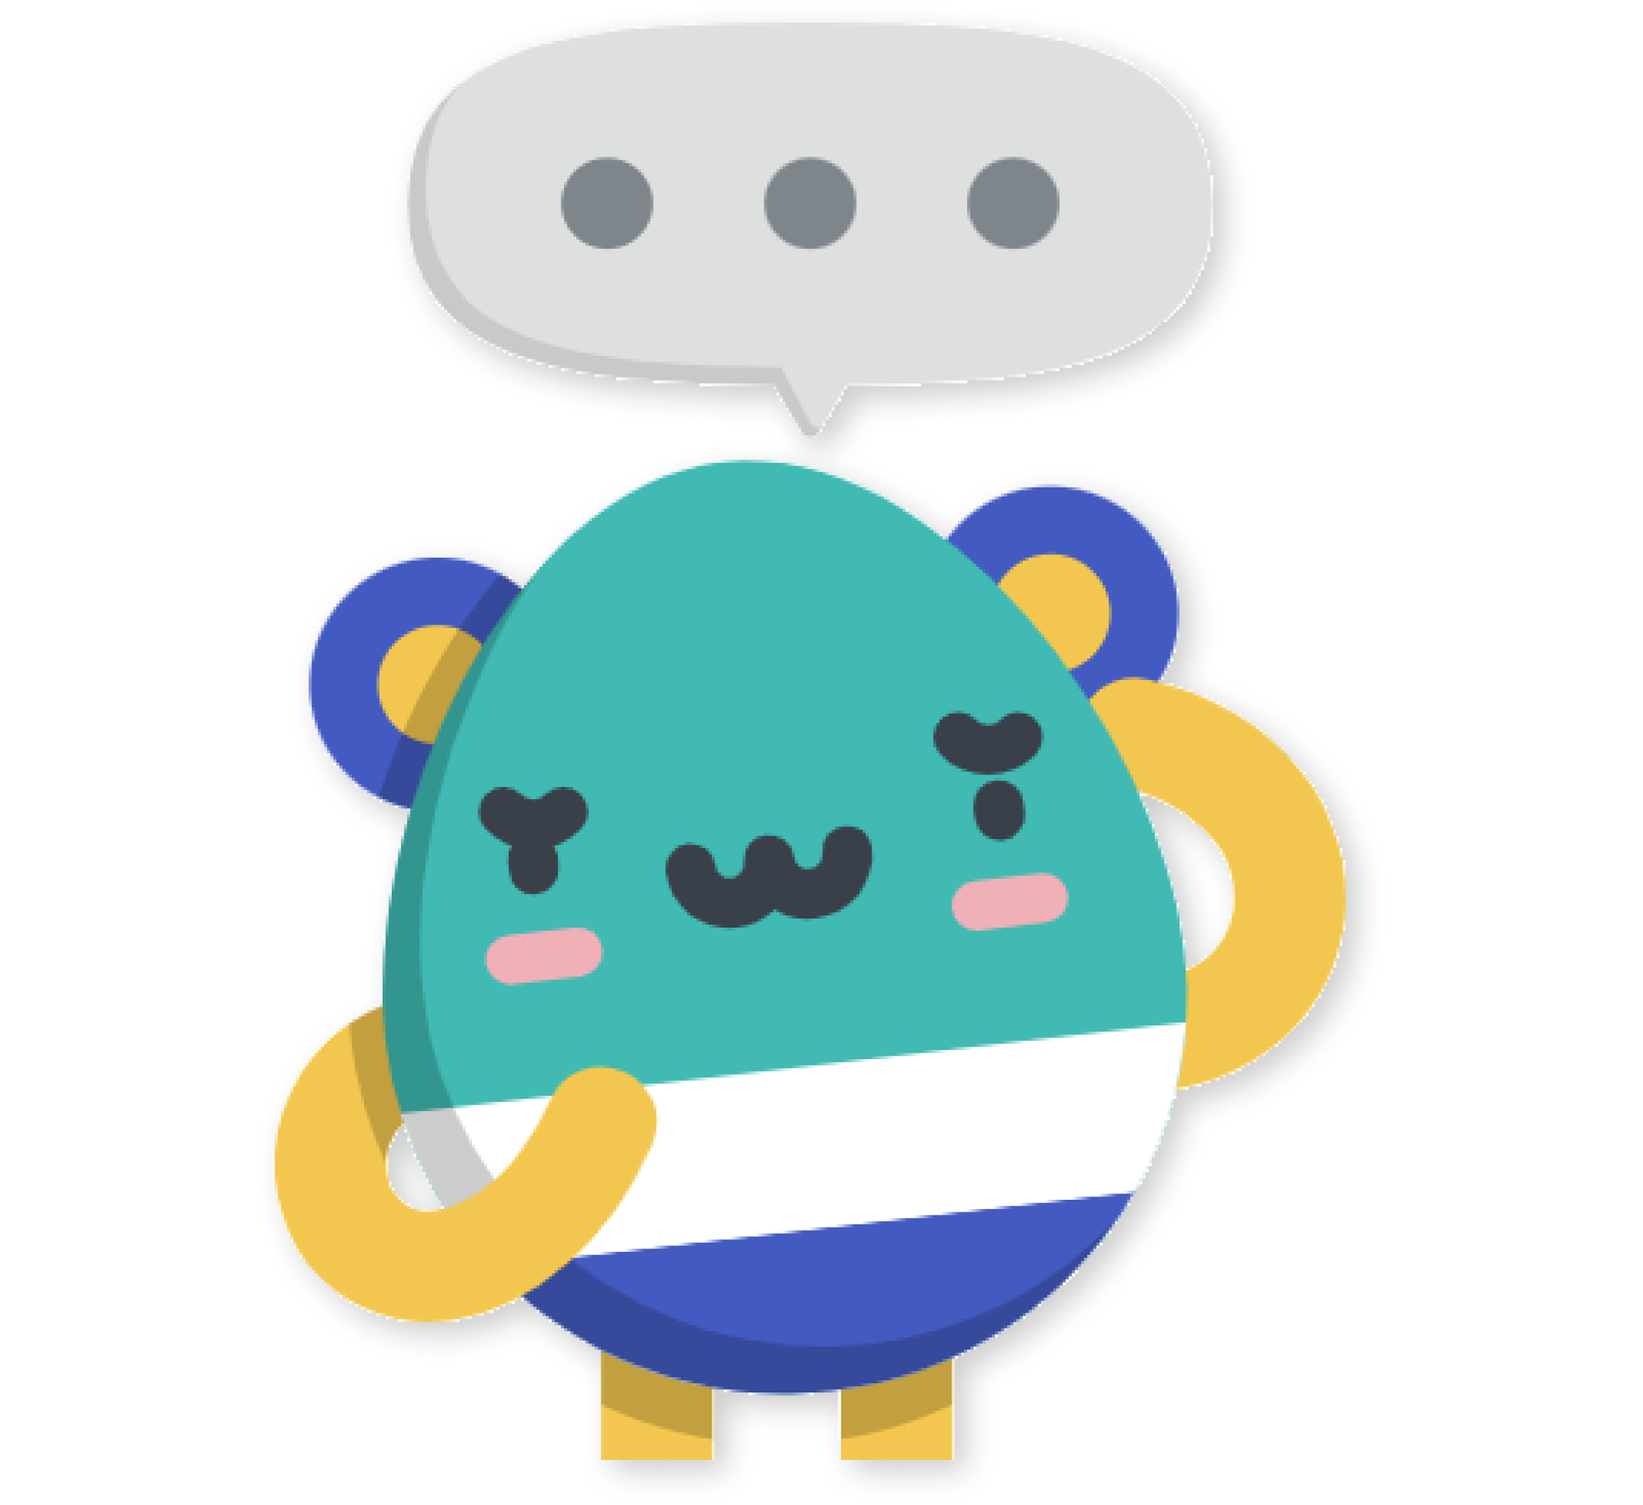
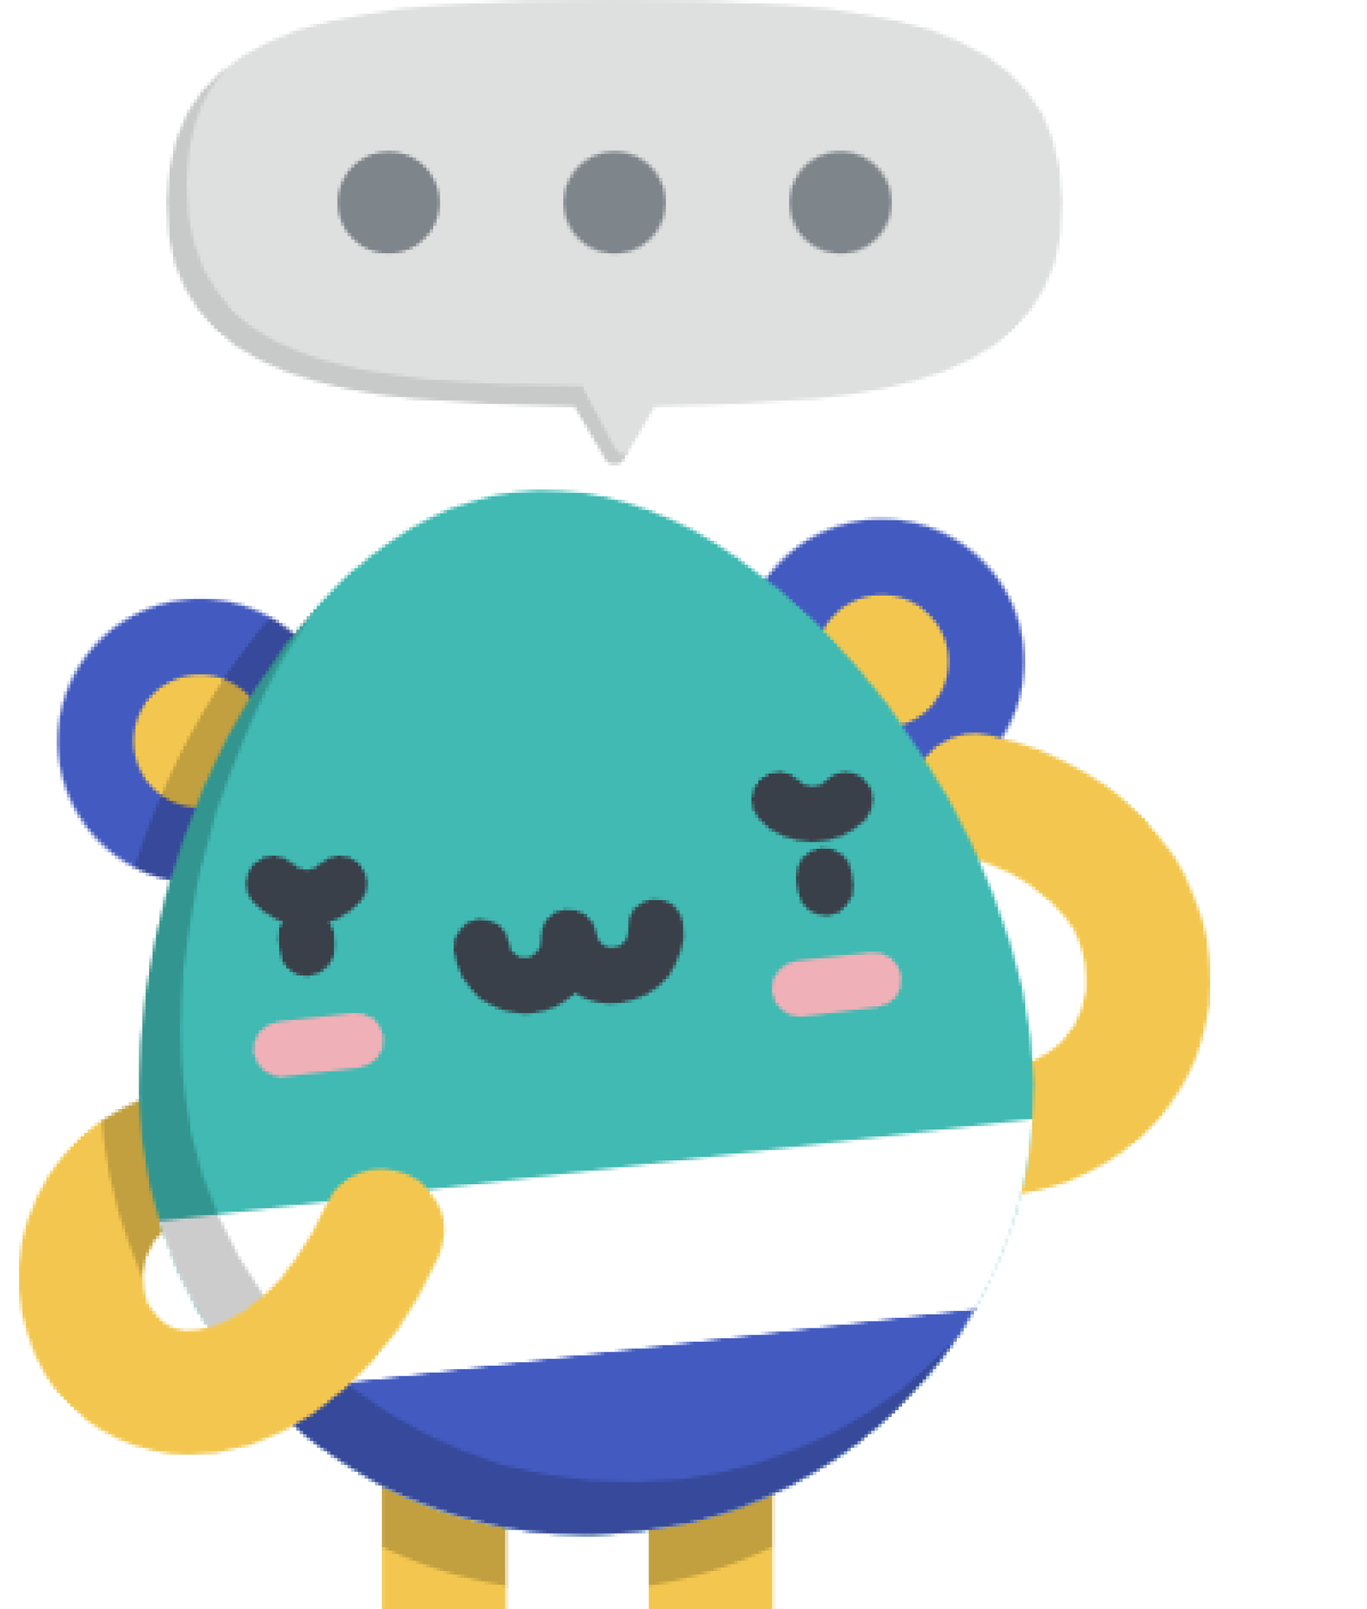
feat: add materials inside level

diff --git a/src/app/eksplor/[roadmapTopicSlug]/[levelSlug]/page.tsx b/src/app/eksplor/[roadmapTopicSlug]/[levelSlug]/page.tsx
@@ -1,15 +1,17 @@
 'use client';
-
-import { Section } from "@/components/core/Section"
-import { Footer } from "@/components/Footer"
-import { ScrambledWord } from "@/components/games/ScrambledWord";
-import { ChevronLeft } from "@/components/icons"
-import { Navbar } from "@/components/Navbar"
-
 import Link from "next/link"
 import Image from "next/image"
+import { useState } from "react";
+
+import { Navbar } from "@/components/Navbar"
+import { Footer } from "@/components/Footer"
+import { Section } from "@/components/core/Section"
+import { ChevronDown, ChevronLeft } from "@/components/icons"
+
 import { Quiz } from "@/components/games/Quiz";
 import { ShortAnswer } from "@/components/games/ShortAnswer";
+import { ScrambledWord } from "@/components/games/ScrambledWord";
+import { Material } from "@/interfaces/Material";
 
 interface LevelDetailProps {
     params: {
@@ -19,9 +21,122 @@ interface LevelDetailProps {
 }
 
 export default function LevelDetail({ params }: LevelDetailProps) {
+    const [openedMaterial, setOpenedMaterial] = useState('');
+
+    const handleOpenMaterial = (materialToBeOpen: string) => {
+        if (openedMaterial === materialToBeOpen) {
+            setOpenedMaterial('');
+        } else {
+            setOpenedMaterial(materialToBeOpen);
+        }
+    }
+
     const handleGameCompletion = () => {
         //TODO: Add point ke player
     }
+
+    const levelMaterials: Array<Material> = [
+        {
+            title: 'Organ Reproduksi',
+            materialItems: [
+                {
+                    type: 'with-illustration',
+                    text: 'Bagian tubuh yang memiliki fungsi khusus dalam proses reproduksi atau pengembangbiakan manusia. Organ ini memungkinkan terjadinya pertemuan antara sel sperma dan sel telur, yang menjadi awal dari pembentukan kehidupan baru. Pada tubuh manusia, organ reproduksi berbeda antara laki-laki dan perempuan. Pada laki-laki, organ seperti testis dan penis berperan dalam memproduksi serta mengeluarkan sperma. Sementara pada perempuan, ovarium dan rahim berfungsi dalam memproduksi sel telur dan mendukung perkembangan janin saat kehamilan. Organ-organ ini mulai berfungsi sepenuhnya ketika seseorang memasuki masa pubertas, yaitu sekitar usia 8-14 tahun.',
+                    textType: 'text',
+                    image: '/assets/thinking.png'
+                }
+            ]
+        },
+        {
+            title: 'Laki-Laki',
+            materialItems: [
+                {
+                    type: 'with-image',
+                    text: `Vas Deferens: Saluran yang membawa sperma dari epididimis menuju uretra selama proses ejakulasi.
+                    Bladder (Kandung Kemih): Organ yang menyimpan urine sebelum dikeluarkan melalui uretra. Kandung kemih tidak terlibat langsung dalam proses reproduksi, tetapi posisinya dekat dengan organ reproduksi pria.
+                    Colon (Usus Besar): Bagian dari sistem pencernaan yang berada di belakang organ reproduksi dan tidak berperan langsung dalam reproduksi.
+                    Seminal Vesicle (Kantung Semen): Struktur yang menghasilkan cairan yang bercampur dengan sperma untuk membentuk semen. Cairan ini kaya akan fruktosa, yang memberi energi pada sperma.
+                    Prostate (Kelenjar Prostat): Kelenjar yang menghasilkan cairan yang membantu sperma bergerak lebih mudah dan meningkatkan kelangsungan hidup sperma dalam sistem reproduksi wanita.
+                    Testicle (Testis): Organ yang memproduksi sperma dan hormon testosteron. Testis berperan penting dalam sistem reproduksi pria.
+                    Epididymis: Struktur berbentuk tabung di atas testis yang menyimpan dan mematangkan sperma setelah diproduksi di testis.
+                    Urethra: Saluran yang membawa sperma keluar dari tubuh selama ejakulasi. Uretra juga berfungsi dalam sistem urin untuk mengeluarkan urine.
+                    Penis: Organ eksternal yang mengeluarkan sperma dari tubuh pria ke dalam sistem reproduksi wanita saat hubungan seksual.`,
+                    textType: 'list',
+                    image: '/assets/male-reproductive-system.png'
+                },
+                {
+                    type: 'game',
+                    gameType: 'quiz',
+                    gameProps: {
+                        question: 'Organ reproduksi pada pria disebut?',
+                        answer: 'Testis',
+                        onComplete: handleGameCompletion,
+                        point: 50,
+                        options: ['Testis', 'Penis', 'Vagina', 'Rambut']
+                    }
+                },
+                {
+                    type: 'with-video',
+                    text: `Vas Deferens: Saluran yang membawa sperma dari epididimis menuju uretra selama proses ejakulasi.
+                    Bladder (Kandung Kemih): Organ yang menyimpan urine sebelum dikeluarkan melalui uretra. Kandung kemih tidak terlibat langsung dalam proses reproduksi, tetapi posisinya dekat dengan organ reproduksi pria.
+                    Colon (Usus Besar): Bagian dari sistem pencernaan yang berada di belakang organ reproduksi dan tidak berperan langsung dalam reproduksi.
+                    Seminal Vesicle (Kantung Semen): Struktur yang menghasilkan cairan yang bercampur dengan sperma untuk membentuk semen. Cairan ini kaya akan fruktosa, yang memberi energi pada sperma.
+                    Prostate (Kelenjar Prostat): Kelenjar yang menghasilkan cairan yang membantu sperma bergerak lebih mudah dan meningkatkan kelangsungan hidup sperma dalam sistem reproduksi wanita.
+                    Testicle (Testis): Organ yang memproduksi sperma dan hormon testosteron. Testis berperan penting dalam sistem reproduksi pria.
+                    Epididymis: Struktur berbentuk tabung di atas testis yang menyimpan dan mematangkan sperma setelah diproduksi di testis.
+                    Urethra: Saluran yang membawa sperma keluar dari tubuh selama ejakulasi. Uretra juga berfungsi dalam sistem urin untuk mengeluarkan urine.
+                    Penis: Organ eksternal yang mengeluarkan sperma dari tubuh pria ke dalam sistem reproduksi wanita saat hubungan seksual.`,
+                    textType: 'list',
+                    video: 'https://www.youtube.com/embed/hTsxizeybm0?si=0Gi3zCK8cVj46h6Z'
+                },
+                {
+                    type: 'game',
+                    gameType: 'scrambled-word',
+                    gameProps: {
+                        question: 'Sebagai organ reproduksi, apa yang dihasilkan oleh testis?',
+                        answer: 'SPERMA',
+                        scrambledWord: 'MSAERP',
+                        image: '/assets/testicle-sperm.png',
+                        onComplete: handleGameCompletion,
+                        point: 30
+                    }
+                },
+            ]
+        },
+        {
+            title: 'Perempuan',
+            materialItems: [
+                {
+                    type: 'with-image',
+                    text: `Uterine Fundus: Bagian atas rahim yang berbentuk melengkung; tempat implantasi embrio di awal kehamilan.
+                    Embrio: Tahap awal perkembangan manusia setelah fertilisasi, sebelum berkembang menjadi janin.
+                    Fallopian Tube (Tuba Falopi): Saluran yang menghubungkan ovarium ke rahim, tempat terjadinya pembuahan antara sel telur dan sperma.
+                    Ovary (Ovarium): Organ yang memproduksi sel telur dan hormon seperti estrogen dan progesteron.
+                    Endometrium: Lapisan dalam rahim yang menebal setiap siklus untuk mendukung implantasi embrio. Jika tidak ada kehamilan, lapisan ini akan luruh saat menstruasi.
+                    Perimetrium: Lapisan luar rahim yang berfungsi melindungi rahim.
+                    Cervix (Serviks): Bagian bawah rahim yang menghubungkan rahim dengan vagina; berperan dalam mengeluarkan lendir dan membuka selama persalinan.
+                    Vagina: Saluran yang menghubungkan serviks ke luar tubuh; berfungsi dalam hubungan seksual, jalur lahir, dan aliran menstruasi.
+                    Cervical Canal: Saluran sempit di dalam serviks yang memungkinkan aliran menstruasi keluar dan sperma masuk ke rahim.
+                    Myometrium: Lapisan otot tebal di dinding rahim yang berkontraksi selama persalinan untuk membantu mendorong bayi keluar.
+                    Fimbriae: Ujung berbentuk jari di ujung tuba falopi yang membantu menangkap sel telur dari ovarium.
+                    Ovarian Ligament: Ligamen yang menahan ovarium agar tetap berada di posisinya di dekat rahim.`,
+                    textType: 'list',
+                    image: '/assets/female-reproductive-system.png'
+                },
+                {
+                    type: 'game',
+                    gameType: 'short-answer',
+                    gameProps: {
+                        question: 'Disebut apakah alat yang ada di gambar ini?',
+                        answer: 'Kondom',
+                        image: '/assets/condom.png',
+                        onComplete: handleGameCompletion,
+                        point: 10
+                    }
+                },
+            ]
+        }
+    ];
 
     return (
         <>
@@ -40,14 +155,75 @@ export default function LevelDetail({ params }: LevelDetailProps) {
                 </div>
             </Section>
             <Section className="bg-soft-cream py-20">
-                <div className="col-span-12 flex flex-col gap-y-12">
-                    <div className="leading-loose">
-                        <h1 className="font-bold text-xl">Organ Reproduksi</h1>
-                        <p>Ayo kita kenalan sama organ reproduksi kita masing-masing dan ketahui cara kerjanya serta manfaatnya!</p>
-                    </div>
-                    <ScrambledWord answer="SPERMA" scrambledWord="MSAERP" question="Sebagai organ reproduksi, apa yang dihasilkan oleh testis?" image="/assets/testicle-sperm.png" point={30} onComplete={handleGameCompletion} />
-                    <Quiz options={['Testis', 'Penis', 'Vagina', 'Rambut']} answer="Testis" question="Organ reproduksi pada pria disebut?" point={50} onComplete={handleGameCompletion} />
-                    <ShortAnswer question="Disebut apakah alat yang ada di gambar ini?" answer="Kondom" image="/assets/condom.png" point={10} onComplete={handleGameCompletion} />
+                <div className="col-span-12 flex flex-col gap-y-8">
+                    {levelMaterials.map(material => (
+                        <div className="flex flex-col gap-y-8 p-8 bg-white rounded-md shadow-md leading-relaxed" key={material.title}>
+                            <div className="flex justify-between items-center cursor-pointer" onClick={() => handleOpenMaterial(material.title)}>
+                                <h1 className="font-bold text-xl">{material.title}</h1>
+                                <ChevronDown />
+                            </div>
+                            {openedMaterial === material.title && (
+                                <div className="flex flex-col gap-y-8">
+                                    {material.materialItems.map(materialItem => {
+                                        if (materialItem.type === 'game') {
+                                            if (materialItem.gameType === 'quiz' && materialItem.gameProps !== undefined && 'options' in materialItem.gameProps) {
+                                                return (
+                                                    <Quiz question={materialItem.gameProps.question} answer={materialItem.gameProps.answer} point={materialItem.gameProps.point} onComplete={materialItem.gameProps.onComplete} options={materialItem.gameProps.options} />
+                                                )
+                                            } else if (materialItem.gameType === 'scrambled-word' && materialItem.gameProps !== undefined && 'scrambledWord' in materialItem.gameProps) {
+                                                return (
+                                                    <ScrambledWord question={materialItem.gameProps.question} answer={materialItem.gameProps.answer} image={materialItem.gameProps.image} point={materialItem.gameProps.point} onComplete={materialItem.gameProps.onComplete} scrambledWord={materialItem.gameProps.scrambledWord} />
+                                                )
+                                            } else if (materialItem.gameType === 'short-answer' && materialItem.gameProps !== undefined) {
+                                                return (
+                                                    <ShortAnswer question={materialItem.gameProps.question} answer={materialItem.gameProps.answer} image={materialItem.gameProps.image!} point={materialItem.gameProps.point} onComplete={materialItem.gameProps.onComplete} />
+                                                )
+                                            }
+                                        } else {
+                                            let materialText;
+
+                                            if(materialItem.textType === 'list') {
+                                                materialText = (
+                                                    <ol className="list-decimal ps-5">
+                                                        {materialItem.text?.split('\n').map(line => (
+                                                            <li>{line}</li>
+                                                        ))}
+                                                    </ol>
+                                                );
+                                            } else {
+                                                materialText = (
+                                                    <p>{materialItem.text}</p>
+                                                );
+                                            }
+
+                                            if (materialItem.type === 'with-illustration' && materialItem.image !== undefined) {
+                                                return (
+                                                    <div className="flex gap-x-12">
+                                                        {materialText}
+                                                        <Image src={materialItem.image} width={486} height={572} alt="Illustration" className="flex-none w-1/4 h-fit drop-shadow-md" />
+                                                    </div>
+                                                );
+                                            } else if (materialItem.type === 'with-image' && materialItem.image !== undefined) {
+                                                return (
+                                                    <div className="grid grid-cols-2 gap-x-12">
+                                                        <Image src={materialItem.image} width={1064} height={1064} alt="Image" className="col-span-1" />
+                                                        {materialText}
+                                                    </div>
+                                                );
+                                            } else if (materialItem.type === 'with-video' && materialItem.video !== undefined) {
+                                                return (
+                                                    <div className="flex flex-col gap-y-8">
+                                                        <iframe className="w-full h-[480px] rounded-md" src={materialItem.video} title="Video" allow="accelerometer; autoplay; clipboard-write; encrypted-media; gyroscope; picture-in-picture; web-share" referrerPolicy="strict-origin-when-cross-origin" allowFullScreen></iframe>
+                                                        {materialText}
+                                                    </div>
+                                                );
+                                            }
+                                        }
+                                    })}
+                                </div>
+                            )}
+                        </div>
+                    ))}
                 </div>
             </Section>
             <Footer />

diff --git a/src/app/page.tsx b/src/app/page.tsx
@@ -42,12 +42,12 @@ export default function Home() {
                 </div>
             </Section>
             <Section className="text-soft-cream bg-dark-slate">
-                <div className="hidden items-end md:flex md:col-span-6 lg:col-span-5 pt-32">
+                <div className="hidden items-end justify-end md:flex md:col-span-6 lg:col-span-5 pt-32">
                     <Image
                         src="/assets/thinking.png"
                         width={486}
                         height={572}
-                        className="w-full drop-shadow-lg"
+                        className="w-11/12 drop-shadow-lg"
                         alt="Thinking image"
                     />
                 </div>

diff --git a/src/interfaces/MaterialItem.ts b/src/interfaces/MaterialItem.ts
@@ -1,0 +1,18 @@
+import { QuizProps } from "@/components/games/Quiz";
+import { ScrambledWordProps } from "@/components/games/ScrambledWord";
+import { ShortAnswerProps } from "@/components/games/ShortAnswer";
+
+type MaterialItemType = 'with-video' | 'with-image' | 'with-illustration' | 'game';
+type MaterialTextType = 'list' | 'text';
+type GameType = 'quiz' | 'scrambled-word' | 'short-answer';
+type GamePropsType = QuizProps | ScrambledWordProps | ShortAnswerProps;
+
+export interface MaterialItem {
+    type: MaterialItemType,
+    gameType?: GameType,
+    gameProps?: GamePropsType,
+    text?: string,
+    textType?: MaterialTextType,
+    image?: string,
+    video?: string,
+}

diff --git a/src/components/icons/ChevronDown.tsx b/src/components/icons/ChevronDown.tsx
@@ -1,0 +1,9 @@
+import { IconProps } from "./types";
+
+export function ChevronDown({ className = '', size = 'size-4 lg:size-6' }: IconProps) {
+    return (
+        <svg xmlns="http://www.w3.org/2000/svg" className={`${className} ${size}`} viewBox="0 0 24 24">
+            <path d="M16.293 9.293 12 13.586 7.707 9.293l-1.414 1.414L12 16.414l5.707-5.707z"></path>
+        </svg>
+    )
+}

diff --git a/src/components/icons/index.tsx b/src/components/icons/index.tsx
@@ -1,4 +1,5 @@
 import { Article } from "./Article";
+import { ChevronDown } from "./ChevronDown";
 import { ChevronLeft } from "./ChevronLeft";
 import { Close } from "./Close";
 import { Diamond } from "./Diamond";
@@ -12,6 +13,7 @@ import { Roadmap } from "./Roadmap";
 export {
     Article,
     ChevronLeft,
+    ChevronDown,
     Close,
     Diamond,
     Envelope,

diff --git a/src/components/games/ScrambledWord.tsx b/src/components/games/ScrambledWord.tsx
@@ -10,7 +10,7 @@ import { Droppable } from "../core/Droppable";
 import { Draggable } from "../core/Draggable";
 import Dialog from "../Dialog";
 
-interface ScrambledWordProps extends Game {
+export interface ScrambledWordProps extends Game {
     scrambledWord: string,
     image: string
 }

diff --git a/src/components/games/Quiz.tsx b/src/components/games/Quiz.tsx
@@ -6,7 +6,7 @@ import { TConductorInstance } from "react-canvas-confetti/dist/types";
 import { Diamond } from "../icons";
 import Dialog from "../Dialog";
 
-interface QuizProps extends Game {
+export interface QuizProps extends Game {
     options: Array<string>
 }
 

diff --git a/src/components/games/ShortAnswer.tsx b/src/components/games/ShortAnswer.tsx
@@ -8,7 +8,7 @@ import { Diamond } from "../icons"
 import { TextField } from "../core/TextField"
 import Dialog from "../Dialog";
 
-interface ShortAnswerProps extends Game {
+export interface ShortAnswerProps extends Game {
     image: string
 }
 

diff --git a/src/interfaces/Material.ts b/src/interfaces/Material.ts
@@ -1,0 +1,6 @@
+import { MaterialItem } from "./MaterialItem";
+
+export interface Material {
+    title: string,
+    materialItems: Array<MaterialItem>
+}
